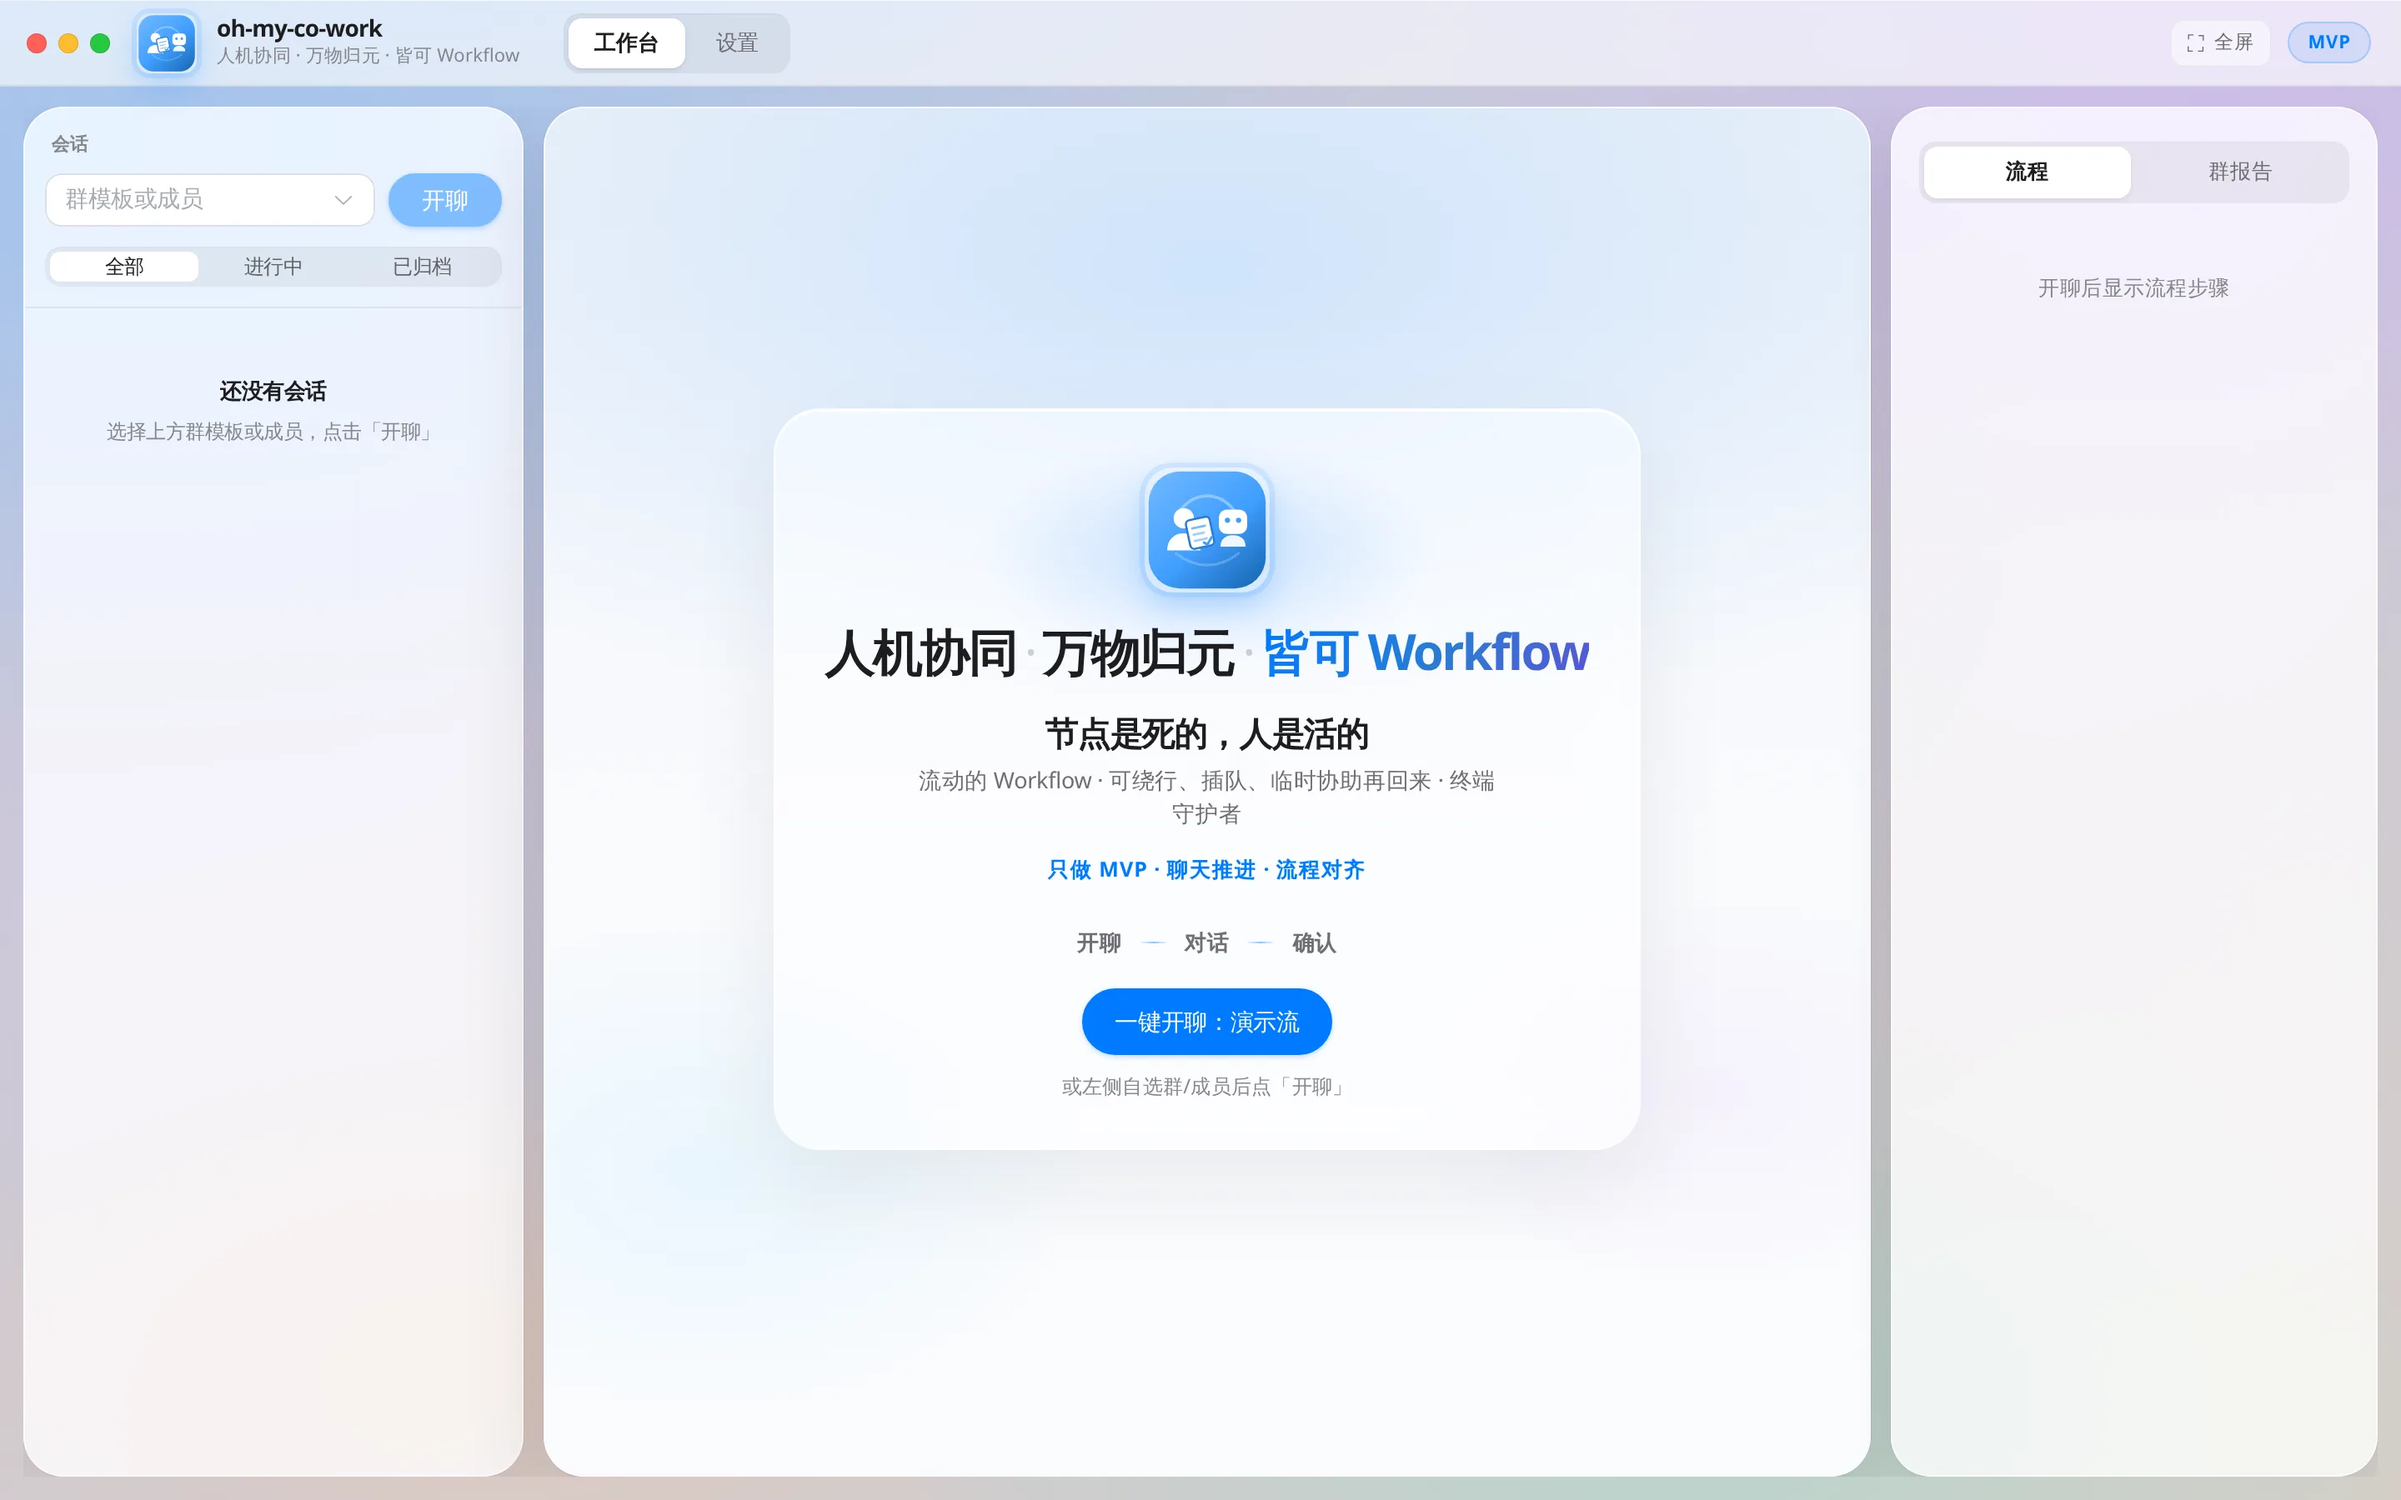
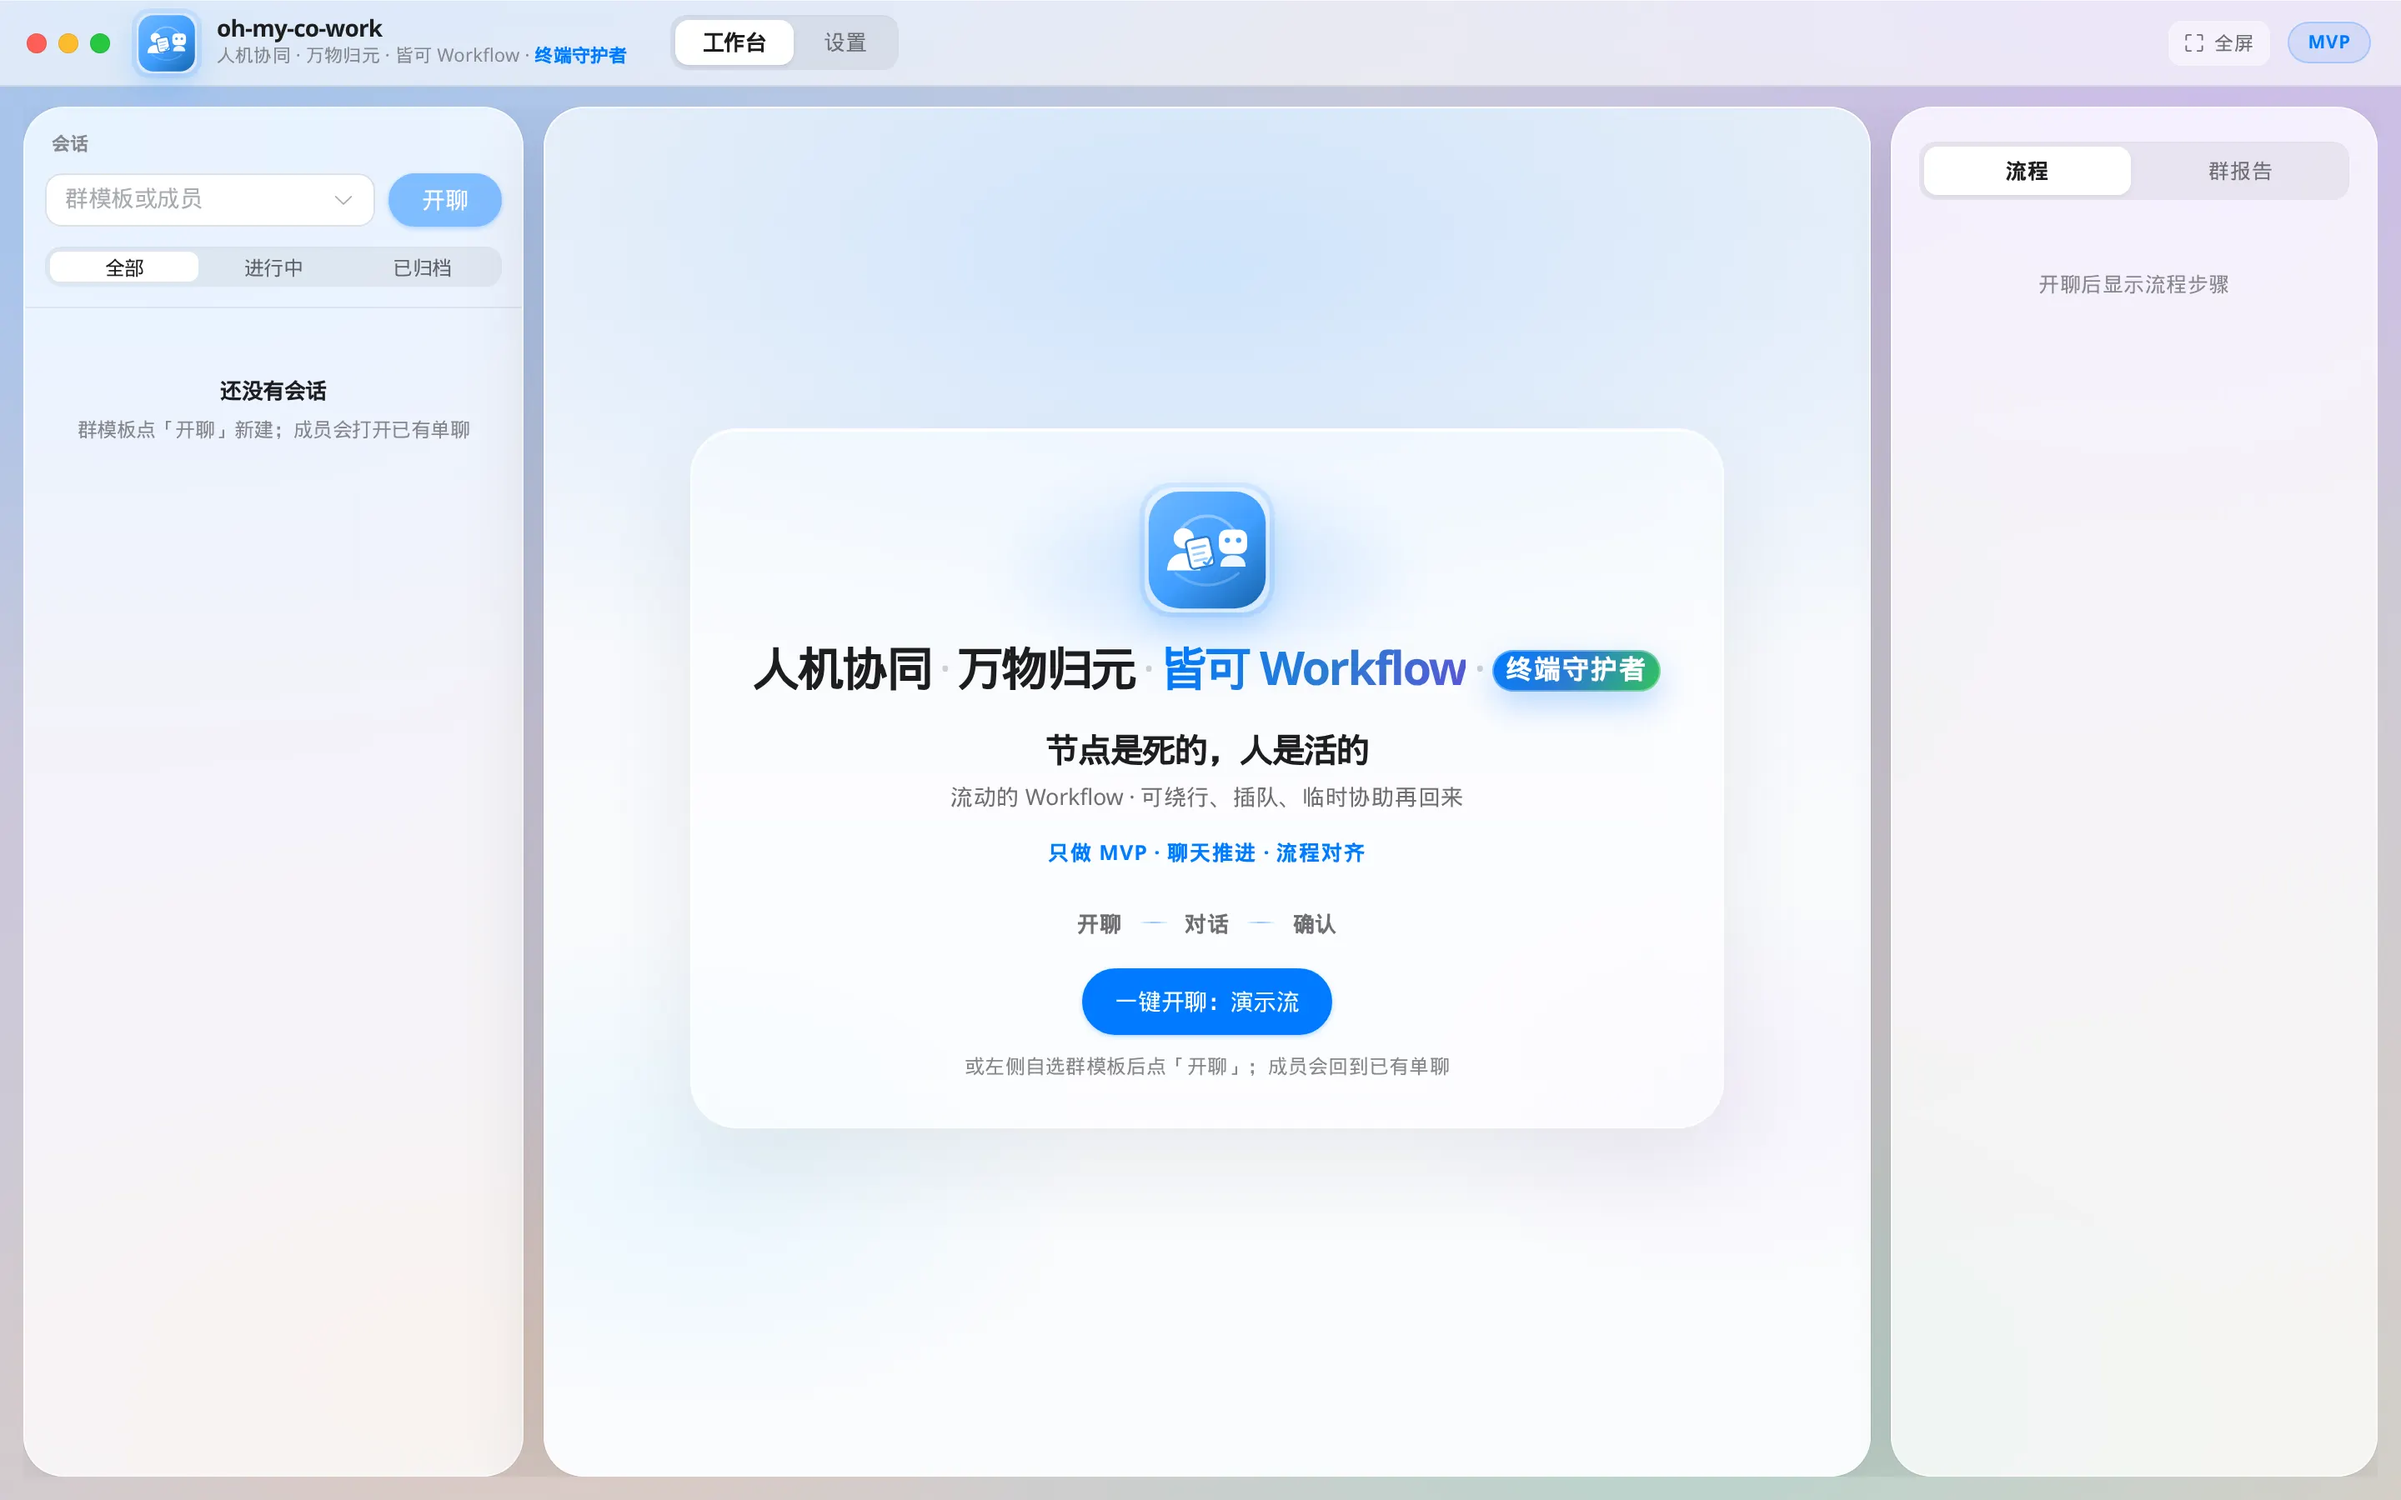
fix: 首页主口号在皆可 Workflow 后加重标识终端守护者
欢迎页把「终端守护者」从副文案挪到主口号右侧胶囊；顶栏与 README 首页截图同步。

diff --git a/web/src/views/Workbench.vue b/web/src/views/Workbench.vue
@@ -591,15 +591,21 @@
             <AppLogo size="xl" class="welcome-logo" :glow="true" />
           </div>
           <h1 class="core-slogan">
-            <span>人机协同</span>
-            <i class="dot">·</i>
-            <span>万物归元</span>
-            <i class="dot">·</i>
-            <span class="accent">皆可 Workflow</span>
+            <span class="slogan-lead">
+              <span>人机协同</span>
+              <i class="dot">·</i>
+              <span>万物归元</span>
+              <i class="dot">·</i>
+            </span>
+            <span class="slogan-tail">
+              <span class="accent">皆可 Workflow</span>
+              <i class="dot">·</i>
+              <span class="guard-mark">终端守护者</span>
+            </span>
           </h1>
           <p class="core-living">
             <span class="living-lead">节点是死的，人是活的</span>
-            <span class="living-rest">流动的 Workflow · 可绕行、插队、临时协助再回来 · 终端守护者</span>
+            <span class="living-rest">流动的 Workflow · 可绕行、插队、临时协助再回来</span>
           </p>
           <p class="core-mvp">只做 MVP · 聊天推进 · 流程对齐</p>
           <p class="welcome-journey" aria-label="上手三步">
@@ -4221,7 +4227,7 @@ loadLists().then(() => {
 .welcome-hero {
   position: relative;
   z-index: 1;
-  width: min(520px, 100%);
+  width: min(620px, 100%);
   text-align: center;
   padding: 36px 28px 28px;
   border-radius: 28px;
@@ -4288,13 +4294,26 @@ loadLists().then(() => {
 .core-slogan {
   position: relative;
   z-index: 1;
+  display: flex;
+  flex-wrap: wrap;
+  justify-content: center;
+  align-items: center;
+  column-gap: 0;
+  row-gap: 8px;
   margin: 0 0 16px;
-  font-size: clamp(23px, 2.8vw, 30px);
+  font-size: clamp(21px, 2.5vw, 28px);
   font-weight: 780;
   letter-spacing: -0.045em;
   line-height: 1.28;
   color: var(--ecw-text-1, #1d1d1f);
   animation: welcome-rise 0.75s 0.12s cubic-bezier(0.22, 1, 0.36, 1) both;
+}
+
+.core-slogan .slogan-lead,
+.core-slogan .slogan-tail {
+  display: inline-flex;
+  align-items: center;
+  white-space: nowrap;
 }
 
 .core-slogan .dot {
@@ -4309,6 +4328,22 @@ loadLists().then(() => {
   -webkit-background-clip: text;
   background-clip: text;
   color: transparent;
+}
+
+.core-slogan .guard-mark {
+  display: inline-flex;
+  align-items: center;
+  padding: 0.16em 0.52em 0.2em;
+  border-radius: 999px;
+  background: linear-gradient(120deg, #007aff 0%, #2b7cd3 48%, #34c759 100%);
+  color: #fff;
+  font-size: 0.58em;
+  font-weight: 780;
+  letter-spacing: 0.06em;
+  line-height: 1.2;
+  box-shadow:
+    0 0 0 1px rgba(255, 255, 255, 0.35) inset,
+    0 8px 20px rgba(0, 122, 255, 0.28);
 }
 
 .core-living {

diff --git a/web/src/App.vue b/web/src/App.vue
@@ -11,8 +11,8 @@
         <AppLogo size="md" class="brand-logo" />
         <div class="brand-block">
           <span class="brand">oh-my-co-work</span>
-          <span class="brand-sub" title="节点是死的，人是活的 — 流动的 Workflow"
-            >人机协同 · 万物归元 · 皆可 Workflow</span
+          <span class="brand-sub" title="节点是死的，人是活的 — 流动的 Workflow · 终端守护者"
+            >人机协同 · 万物归元 · 皆可 Workflow · <em class="brand-guard">终端守护者</em></span
           >
         </div>
         <nav class="top-nav" aria-label="主导航" data-fullscreen-control>
@@ -162,6 +162,12 @@ onUnmounted(() => {
   font-size: 11px !important;
   letter-spacing: 0.01em;
   font-weight: 400 !important;
+}
+
+.brand-block .brand-guard {
+  font-style: normal;
+  font-weight: 700 !important;
+  color: var(--ecw-accent, #007aff);
 }
 
 .top-right {

diff --git a/CODE_CHANGE.md b/CODE_CHANGE.md
@@ -22,6 +22,12 @@ YYYY-MM-DD | A/M/D/R | 文件路径 | 一句话说明（改了什么、为什么
 
 ## 变更记录
 
+2026-08-18 | M | web/src/views/Workbench.vue | 首页主口号「皆可 Workflow」后加重标识「终端守护者」
+2026-08-18 | M | web/src/App.vue | 顶栏副标同步「终端守护者」
+2026-08-18 | M | docs/assets/screenshots/workbench-home.webp | 重拍首页截图
+2026-08-18 | M | README.md | 首页截图 alt 对齐新口号
+2026-08-18 | M | CODE_CHANGE.md | 追加本轮条目
+
 2026-08-17 | M | server/src/terminal/terminalService.js | 同成员替换旧终端后再计配额；脱敏只写日志
 2026-08-17 | M | server/test/terminalService.test.js | 覆盖配额替换与日志脱敏、回放原文
 2026-08-17 | M | README.md / AGENT.md / docs/* / about.json | 2.4.0 最终封板

diff --git a/README.md b/README.md
@@ -22,7 +22,7 @@
 > **节点是死的，人是活的。**
 > Workflow 负责串起过程，人可以确认、拒绝、插队、绕行，也可以随时回来继续。
 
-<img src="./docs/assets/screenshots/workbench-home.webp" alt="oh-my-co-work 工作台首页：流动的 Workflow · 终端守护者" width="100%" />
+<img src="./docs/assets/screenshots/workbench-home.webp" alt="oh-my-co-work 工作台首页：皆可 Workflow · 终端守护者" width="100%" />
 
 <img src="./docs/assets/screenshots/workbench-overview.webp" alt="oh-my-co-work 三栏协同工作台" width="100%" />
 
